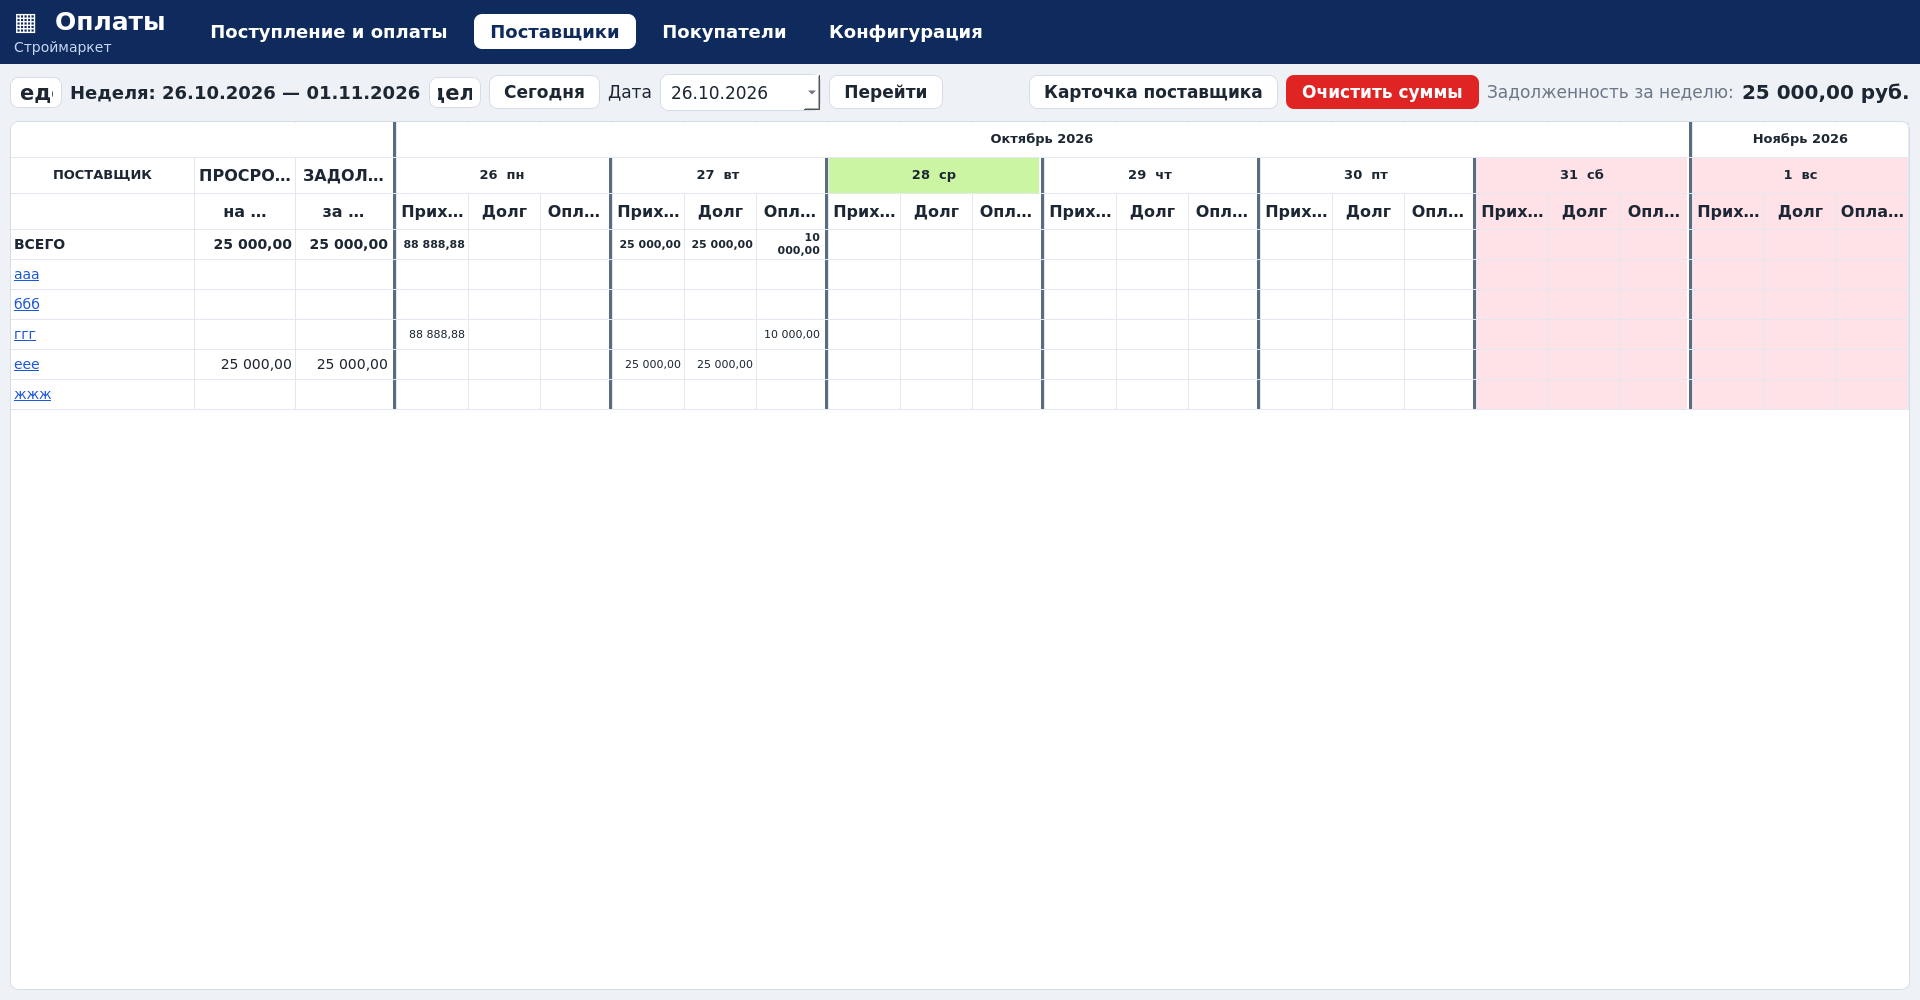
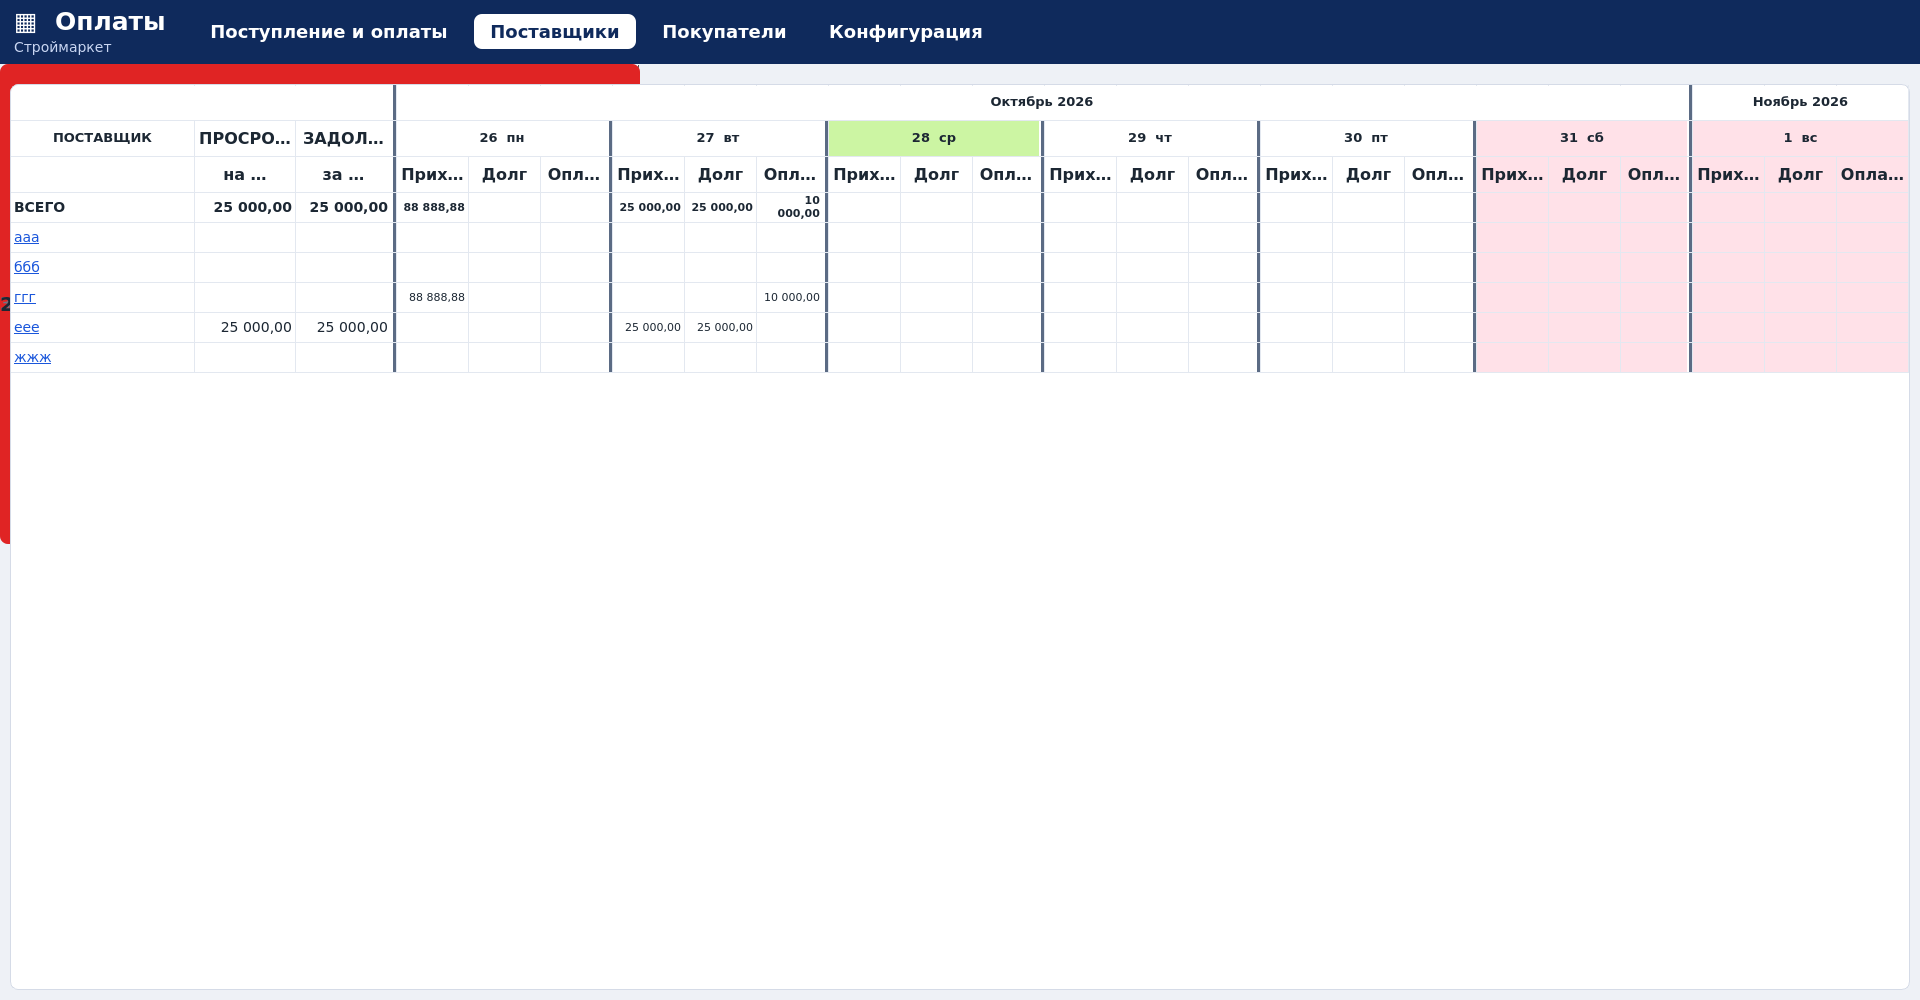
v0.15.0: кнопки «Неделя» по ширине текста, перенос тулбара по строкам

diff --git a/src/oplata/widgets.py b/src/oplata/widgets.py
@@ -4,12 +4,14 @@ from __future__ import annotations
 
 from decimal import Decimal, InvalidOperation
 
-from PySide6.QtCore import QDate, QEvent, QObject, Qt, QTimer
+from PySide6.QtCore import QDate, QEvent, QObject, QPoint, QRect, QSize, Qt, QTimer
 from PySide6.QtGui import QColor, QFocusEvent
 from PySide6.QtWidgets import (
     QDateEdit,
     QFrame,
     QLabel,
+    QLayout,
+    QLayoutItem,
     QLineEdit,
     QPushButton,
     QSizePolicy,
@@ -244,7 +246,12 @@ def arrow_button(
     """
 
     button = QPushButton(text)
-    button.setFixedWidth(52)
+    # Узкая фиксированная ширина — только для одиночных стрелок
+    # «←»/«→». Кнопкам с подписью («← Неделя», «Неделя →») ширина
+    # нужна по содержимому: иначе текст не помещается и обрезается
+    # (v0.15.0).
+    if len(text) <= 2:
+        button.setFixedWidth(52)
     if bold:
         # Стиль приложения задаёт кнопкам свой шрифт, поэтому жирность
         # и кегль задаются таблицей стилей самого виджета: она имеет
@@ -261,10 +268,95 @@ def arrow_button(
         )
     if tooltip:
         button.setToolTip(tooltip)
+    if len(text) > 2:
+        # Ширина по тексту: иначе длинная подпись не помещается.
+        button.adjustSize()
+        button.setMinimumWidth(max(52, button.sizeHint().width() + 12))
     return button
 
 
 # ------------------------------------------------------- подсветка строки
+class FlowLayout(QLayout):
+    """Раскладка «переносом по строкам» — как текст в абзаце.
+
+    Нужна тулбару недельной таблицы (v0.15.0): кнопок и подписей там
+    много, и при узком окне они должны переноситься на следующую
+    строку, а не уезжать за край.
+    """
+
+    def __init__(self, parent=None, spacing: int = 8) -> None:
+        super().__init__(parent)
+        self.setSpacing(spacing)
+        self._items: list[QLayoutItem] = []
+
+    # --- обязательные методы QLayout ---
+    def addItem(self, item):
+        self._items.append(item)
+
+    def count(self):
+        return len(self._items)
+
+    def itemAt(self, index):
+        if 0 <= index < len(self._items):
+            return self._items[index]
+        return None
+
+    def takeAt(self, index):
+        if 0 <= index < len(self._items):
+            return self._items.pop(index)
+        return None
+
+    def expandingDirections(self):
+        return Qt.Orientation(0)
+
+    def hasHeightForWidth(self):
+        return True
+
+    def heightForWidth(self, width):
+        return self._layout(QRect(0, 0, width, 0), apply_geometry=False)
+
+    def setGeometry(self, rect):
+        super().setGeometry(rect)
+        self._layout(rect, apply_geometry=True)
+
+    def sizeHint(self):
+        return self.minimumSize()
+
+    def minimumSize(self):
+        size = QSize()
+        for item in self._items:
+            size = size.expandedTo(item.minimumSize())
+        margins = self.contentsMargins()
+        return size + QSize(
+            margins.left() + margins.right(), margins.top() + margins.bottom()
+        )
+
+    # --- раскладка ---
+    def _layout(self, rect, apply_geometry):
+        margins = self.contentsMargins()
+        available = QRect(rect)
+        available.adjust(
+            margins.left(), margins.top(), -margins.right(), -margins.bottom()
+        )
+        x, y = available.x(), available.y()
+        row_height = 0
+        spacing = self.spacing()
+        for item in self._items:
+            widget = item.widget()
+            if widget is not None and not widget.isVisible():
+                continue
+            hint = item.sizeHint()
+            if x > available.x() and x + hint.width() > available.right() + 1:
+                x = available.x()
+                y += row_height + spacing
+                row_height = 0
+            if apply_geometry:
+                item.setGeometry(QRect(QPoint(x, y), hint))
+            x += hint.width() + spacing
+            row_height = max(row_height, hint.height())
+        return y + row_height - rect.y() + margins.bottom()
+
+
 class RowHoverMixin:
     """Рисует бежевую подсветку **всей строки** под курсором (v0.13.0).
 

diff --git a/src/oplata/views/week_view.py b/src/oplata/views/week_view.py
@@ -69,6 +69,7 @@ from ..models import (
 from ..storage import DataStore
 from ..widgets import (
     AmountLineEdit,
+    FlowLayout,
     danger_button,
     date_edit_value,
     make_date_edit,
@@ -248,9 +249,11 @@ class WeekView(QWidget):
         self.refresh()
 
     # ------------------------------------------------------------------ UI
-    def _build_toolbar(self) -> QHBoxLayout:
-        bar = QHBoxLayout()
-        bar.setSpacing(8)
+    def _build_toolbar(self) -> FlowLayout:
+        # Тулбар переносится по строкам (v0.15.0): кнопок и подписей
+        # много, и при узком окне они уходят на следующую строку, а не
+        # за край окна.
+        bar = FlowLayout(spacing=8)
 
         self.prev_week_btn = arrow_button("← Неделя", "Неделя назад")
         self.prev_week_btn.clicked.connect(lambda: self._shift_week(-7))
@@ -276,7 +279,12 @@ class WeekView(QWidget):
         go_btn.clicked.connect(self._go_to_date)
         bar.addWidget(go_btn)
 
-        bar.addStretch(1)
+        # Переносимый тулбар не поддерживает растяжку: разрыв между
+        # левой группой (неделя/дата) и правой (кнопки справа) делает
+        # невидимый разделитель.
+        spacer = QLabel("")
+        spacer.setFixedWidth(24)
+        bar.addWidget(spacer)
 
         # Кнопка карточки живёт в панели таблицы (с v0.11.0), а не в шапке
         # окна: пользователь просил перенести её слева от «Очистить суммы».

diff --git a/docs/DECISIONS.md b/docs/DECISIONS.md
@@ -5,6 +5,21 @@
 
 ---
 
+## ADR-024: Ширина кнопок тулбара и перенос по строкам
+
+- **Дата:** 2026-10-28 · **Статус:** принято
+- **Контекст.** Кнопки «← Неделя»/«Неделя →» создавались той же функцией,
+  что одиночные стрелки, и получали фиксированную ширину 52 px — подпись
+  обрезалась. Плюс тулбар недельной таблицы целиком не влезал в узкое
+  окно: правая часть уезжала за край.
+- **Решение.**
+  - `arrow_button`: фиксированные 52 px — только для текста длиной до
+    двух символов; для подписей ширина берётся по `sizeHint()`.
+  - Тулбар недельной таблицы — на `FlowLayout` (перенос по строкам, как
+    текст в абзаце). При достаточной ширине всё остаётся одной строкой.
+- **Последствия.** Ничего не переименовано и не убрано: при узком окне
+  тулбар занимает две строки, таблица становится ниже.
+
 ## ADR-023. Правки таблиц и «Сводки»: стрелки, долги, задолженность покупателей
 **Дата:** 28.10.2026 · **Статус:** принято (v0.15.0; уточняет ADR-020/022)
 

diff --git a/CHANGELOG.md b/CHANGELOG.md
@@ -33,6 +33,11 @@
   колонка «ЗАДОЛЖ.» с подзаголовком **«Всего»** = Реализация − Оплата.
 - В «Сводке» строка блока «Средства» называется **«Итого поступление»**
   (со строчной буквы).
+- **Кнопки «← Неделя»/«Неделя →» помещаются целиком**: ширина берётся
+  по тексту, а не фиксированная 52 px (так было только для одиночных
+  стрелок «←»/«→»).
+- **Тулбар недельной таблицы переносится по строкам**: при узком окне
+  кнопки уходят на следующую строку, а не за край окна.
 - **Таблица плашки «Поступление» закреплена**: высота фиксирована по
   числу строк, высоты строк не пересчитываются — при обновлении,
   смене даты и изменении размера окна таблица не «болтается» и не
